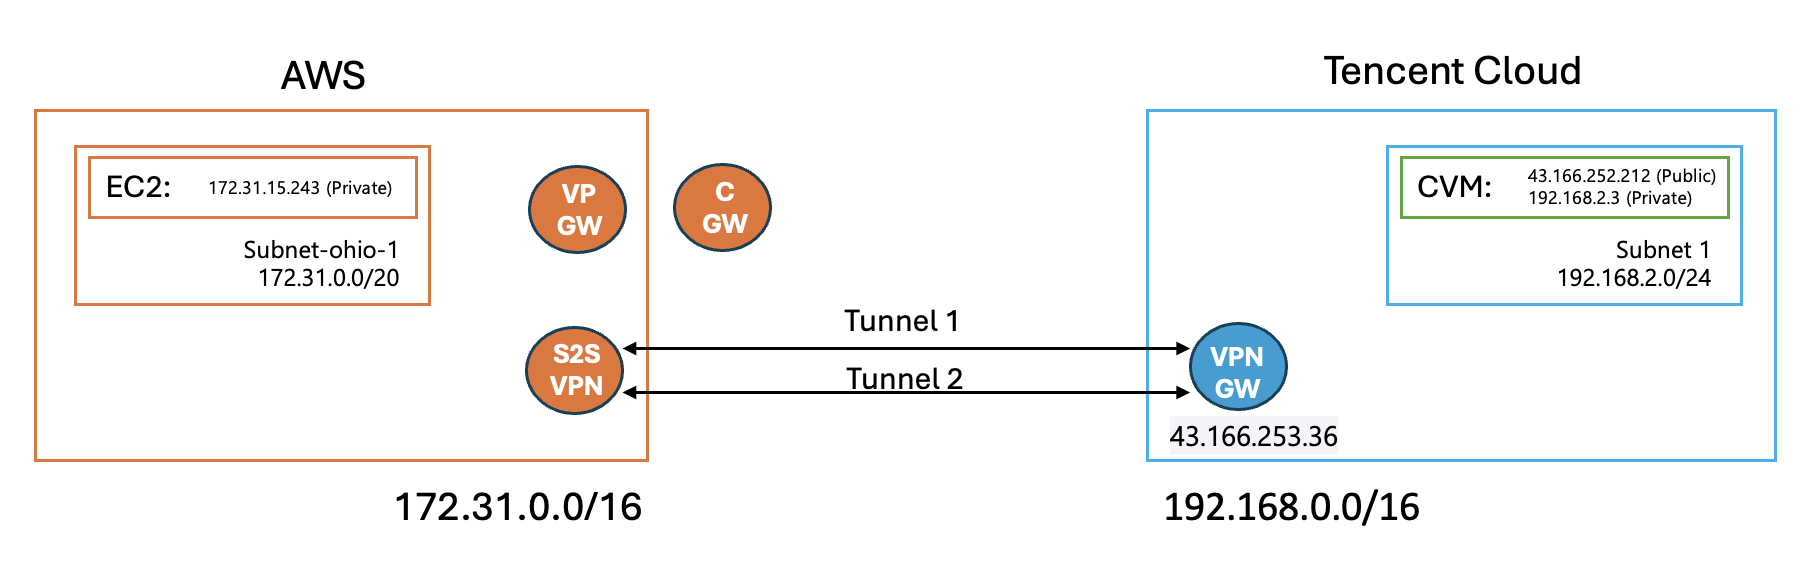
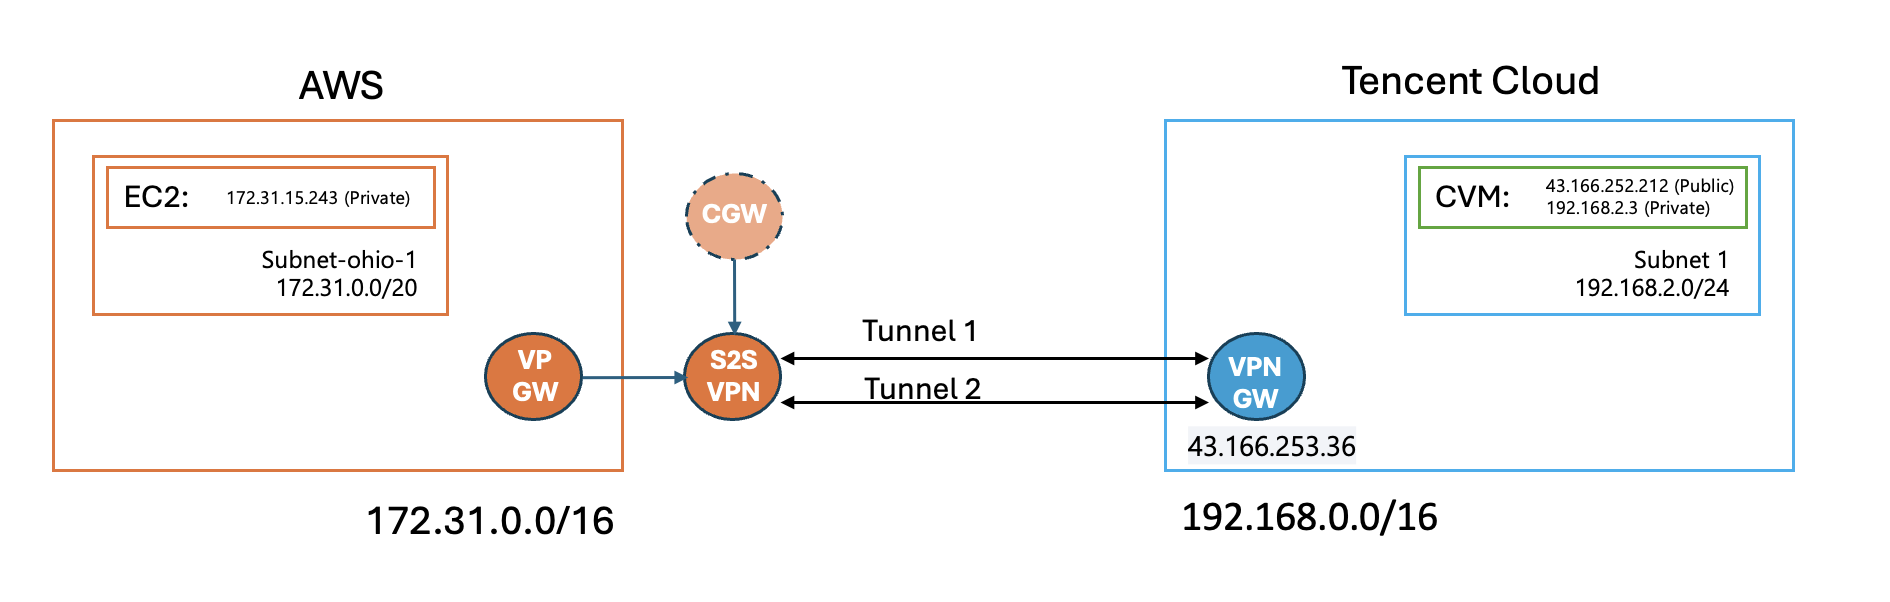
add ping

diff --git a/How to Establish a VPN Tunnel Between Tencent Cloud and AWS/How to Establish a VPN Tunnel Between Tencent Cloud and AWS.md b/How to Establish a VPN Tunnel Between Tencent Cloud and AWS/How to Establish a VPN Tunnel Between Tencent Cloud and AWS.md
@@ -17,8 +17,9 @@ Before proceeding, ensure you have the following:
 In this section, we will describe the high-level architecture for connecting Tencent Cloud and AWS using a VPN tunnel.
 
 - **VPC in Tencent Cloud** and **VPC in AWS** that will communicate via a VPN tunnel.
-- **Cloud VPN** in Tencent Cloud and **Virtual Private Gateway** in AWS.
+- It's a site-to-site vpn which will allow the servers in both side vpcs to see each other.
 - The VPN tunnel will be established over the internet using IKEv2/IPsec protocols.
+- There'll be two vpn tunnels to achieve HA.
 
 ![](./vpn.png)
 
@@ -36,22 +37,6 @@ In this section, we will describe the high-level architecture for connecting Ten
 2. Click **Create VPN Gateway** and choose IPSec as the protocal.
 3. After creation, you can get the gateway IP.
 
-### 1.3 Configure the VPN Tunnel (IPSec)
-
-1. Use the configuration details obtained from AWS to set up the **VPN Tunnel** in Tencent Cloud.
-2. Set the tunnel parameters such as IKE version, pre-shared keys, and encryption settings.
-
-### 1.4 Create the Customer Gateway (CGW) in Tencent Cloud
-
-1. In the **Tencent Cloud Console**, create a new **Customer Gateway** for the AWS side.
-2. Provide the public IP address of the VPN endpoint (this will be the external IP of AWS’s Virtual Private Gateway).
-3. Set the VPN routing options and authentication details.
-
-### 1.5 Testing the VPN Tunnel
-
-1. After configuring both sides, ensure that the VPN connection is **UP** and **active**.
-2. Run **ping tests** or other connectivity checks to verify the tunnel's operation.
-
 ## Step 2: Setting Up the VPN in AWS
 
 ### 2.1 Create a Virtual Private Cloud (VPC)
@@ -68,8 +53,8 @@ In this section, we will describe the high-level architecture for connecting Ten
 
 ### 2.3 Configure the Customer Gateway (CGW) in AWS
 
-1. In the **VPC Console**, create a new **Customer Gateway** for the Tencent Cloud side.
-2. Provide the public IP address of the VPN endpoint (this will be the external IP of Tencent Cloud’s VPN Gateway).
+1. In the **VPC Console**, create a new **Customer Gateway** for the Tencent Cloud VPN GW created in Step 1.
+2. Provide the public IP address of the VPN endpoint (this is the gateway IP in 1.2).
 
 ### 2.4 Create the VPN Connection in AWS
 
@@ -104,6 +89,12 @@ In this section, we will describe the high-level architecture for connecting Ten
 1. Create CVM inside the subnet 192.168.2.0/24 created in Step 1.1, with public IP
 2. Create EC2 inside the subnet 172.31.0.0/20 created in step 2.1
 3. SSH to CVM, ping EC2 ![](ping.png)
+
+## Step 5: HA Test
+
+1. There're two tunnels, and we can see the default tunnel is vpnx-1snh7wzk from 3.3 image. Then we can check the details of this tunnel and we can see the IP address of AWS tunnel.
+2. We can turn off this tunnel by disable the default routing shown in 3.3 image, then the traffic will go through the other tunnel.
+3. We can monitor the traffic by using the logs and monitoring tools in each side.
 
 ## Conclusion
 
